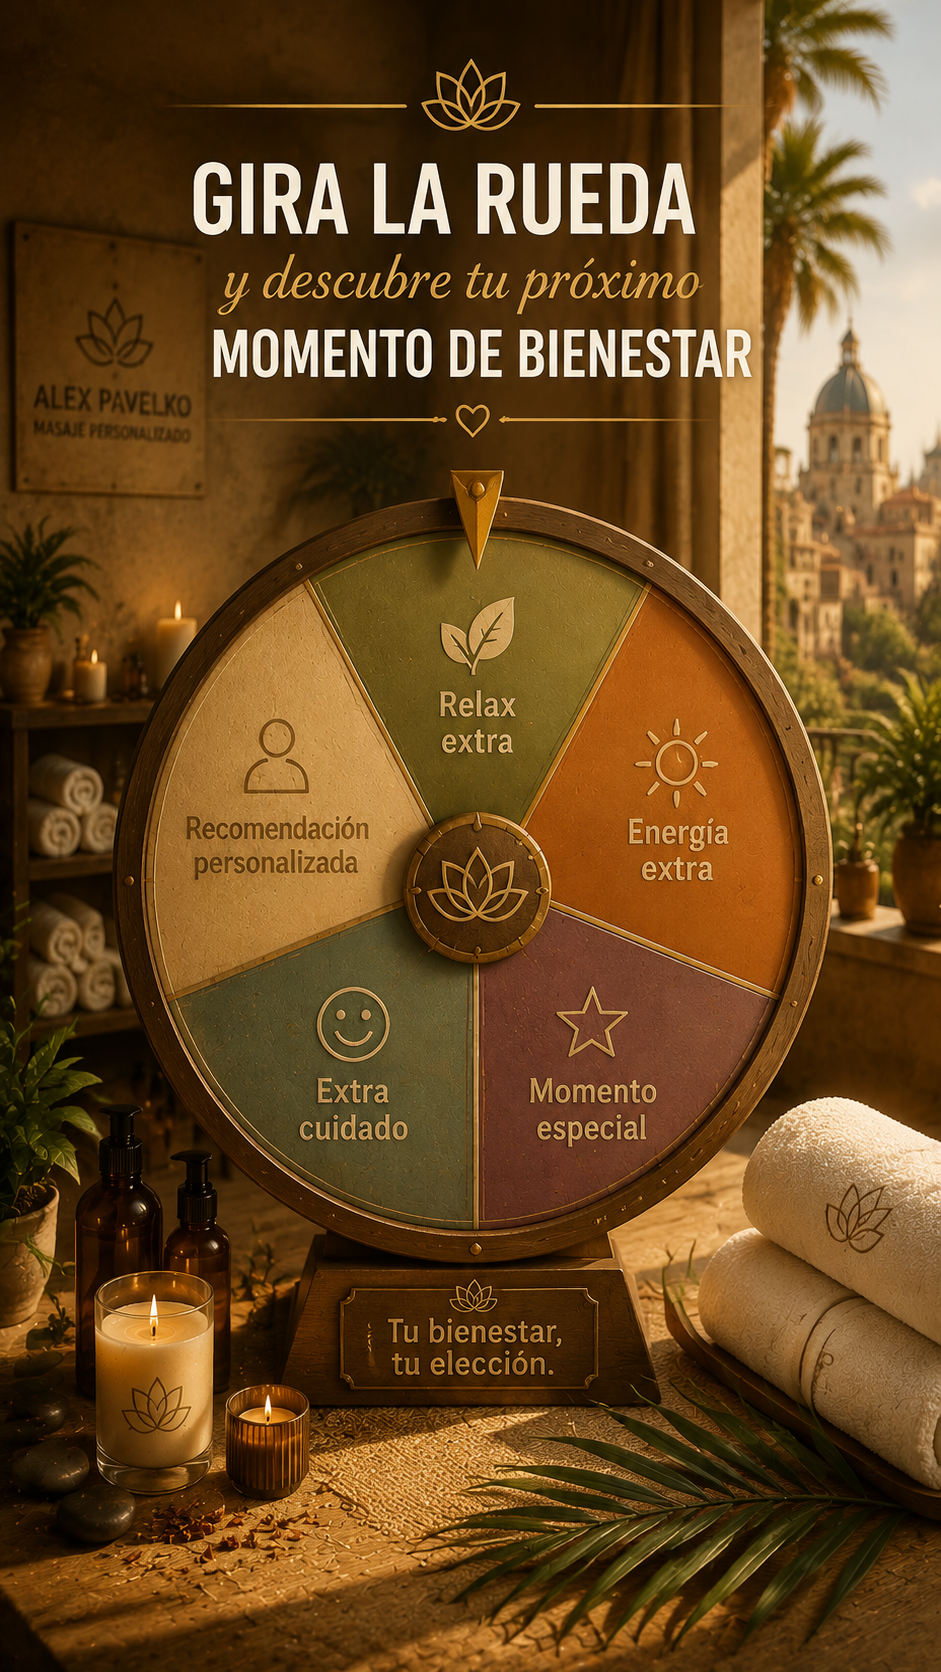
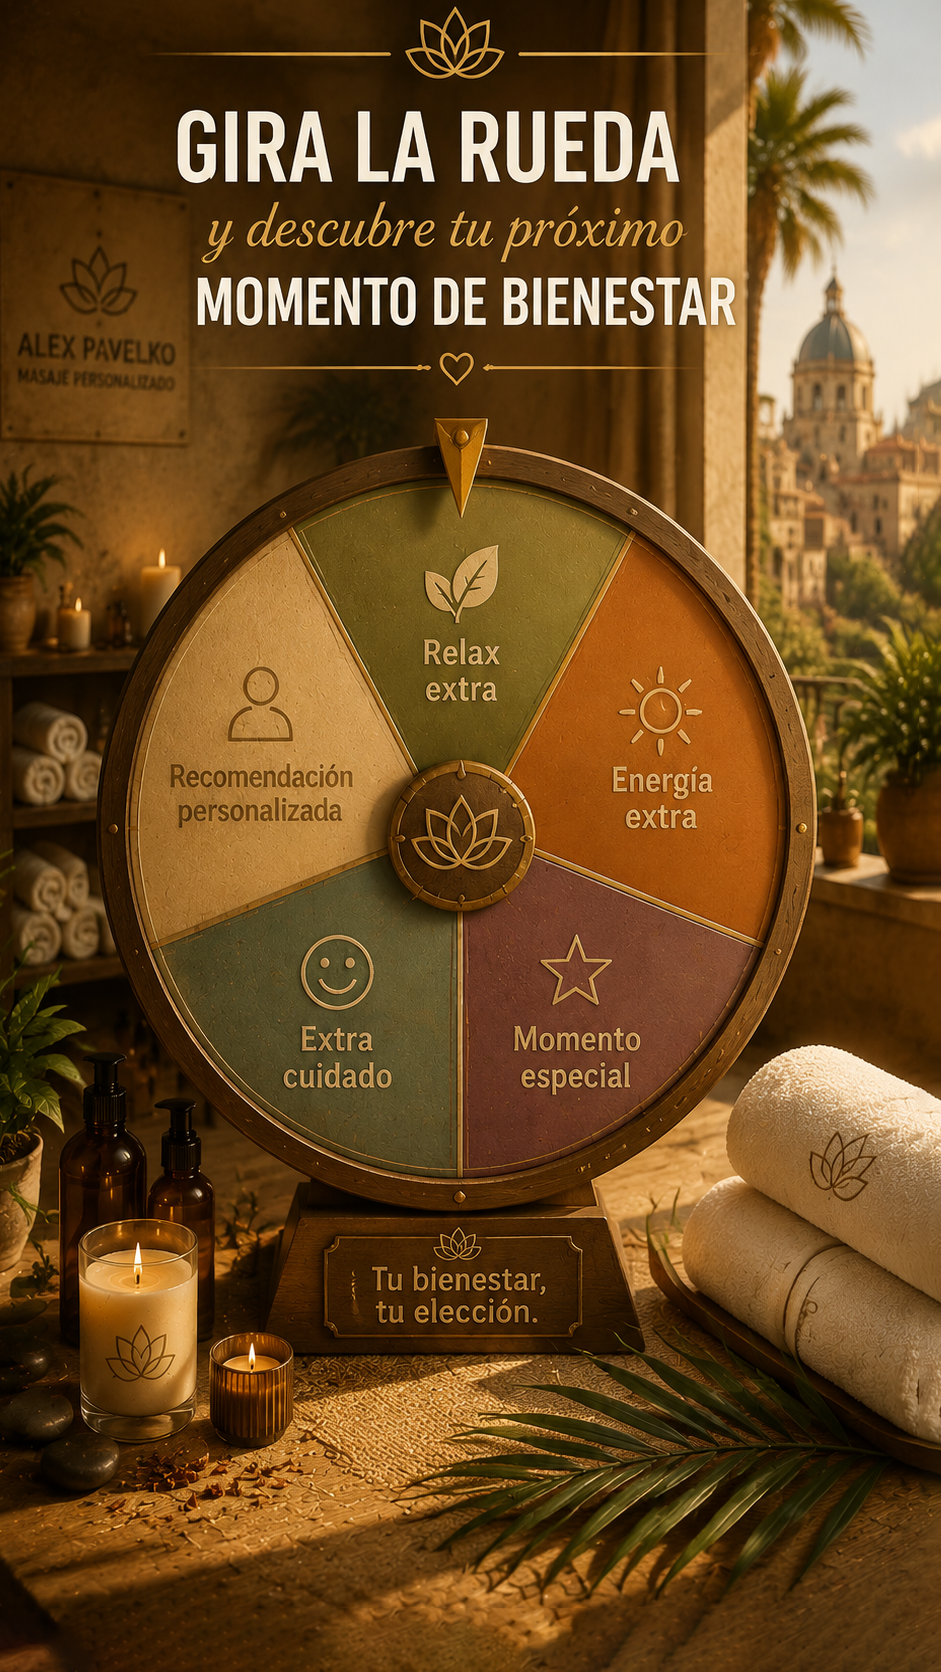
11v

diff --git a/game.js b/game.js
@@ -2374,7 +2374,7 @@ function(){
 
 
 if(
-gameState.selectedItems.length !== 4
+gameState.selectedItems.length !== 0
 ){
 
 return;
